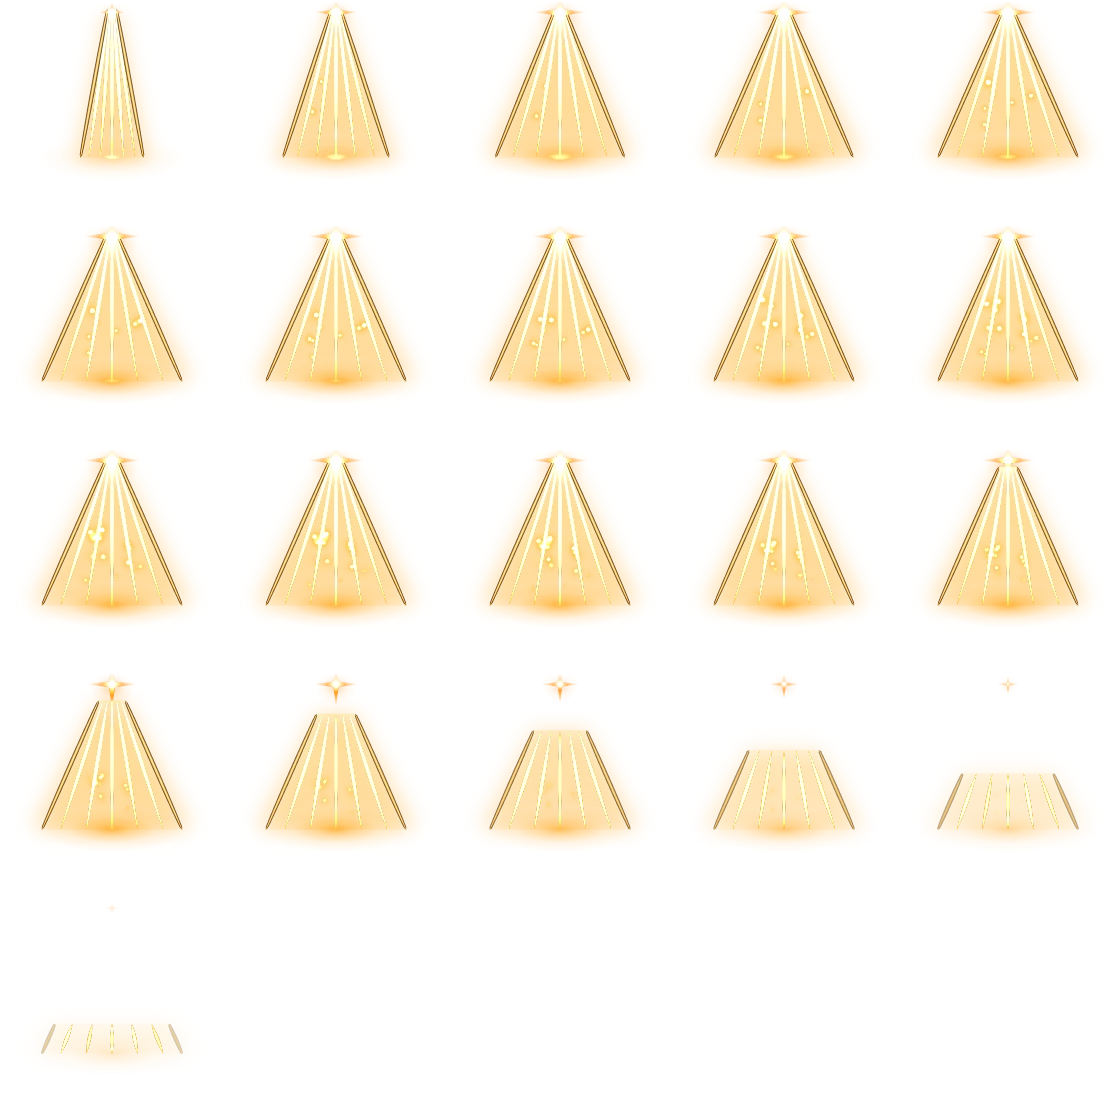
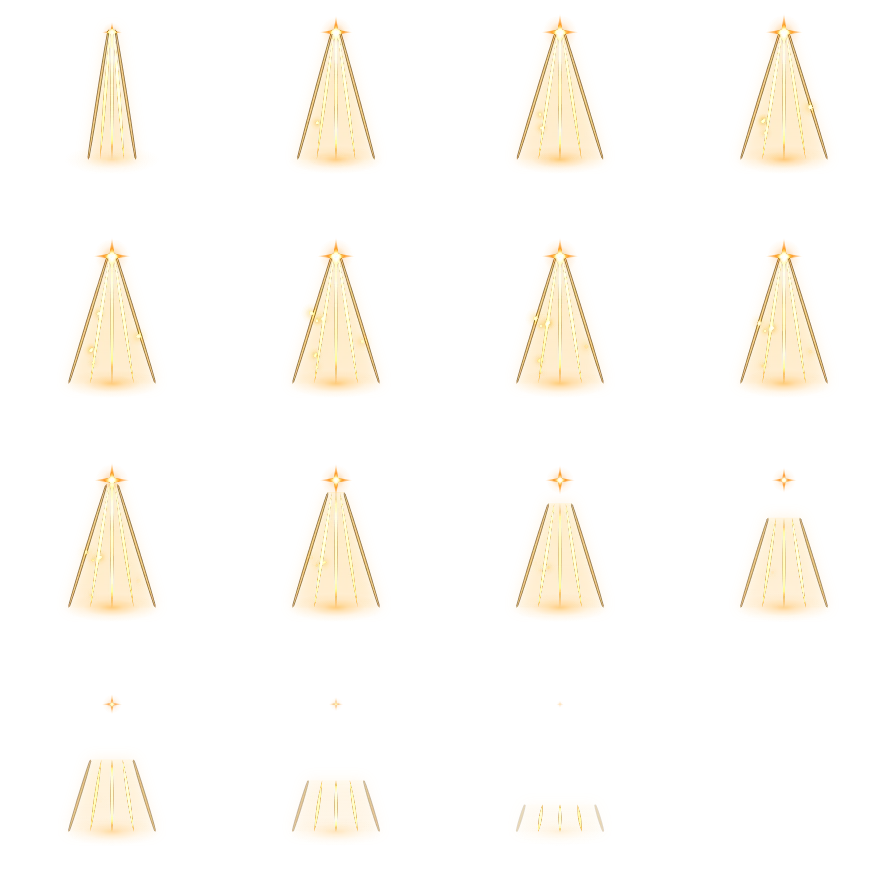
성기사 빛의 손길 이펙트를 기본 힐답게 가볍게: 원뿔 폭 절반 · 0.9초 → 0.67초 · 칸 안으로 · 옅게
Lim 2026-10-16 「성기사의 빛의 손길 이펙트가 너무 과하다. 기본힐인데 그에 맞게」. 모양 (위에서 비추는 원뿔 빛)은 그대로.
fx:shot이 다른 직업 띠를 읽을 때 기다리는 시간도 늘림 (기기가 바쁘면 이펙트 없이 찍히던 것).

diff --git a/src/battle/pxf.ts b/src/battle/pxf.ts
@@ -77,7 +77,7 @@ export const PXF = {
   'druid-bark': skill(24, 92),
   'druid-quietwood': skill(24, 72),
   'druid-rebirth': skill(24, 98),
-  'paladin-holy-light': skill(22, 94),
+  'paladin-holy-light': skill(16, 80), // 기본 힐이라 가볍게 (Lim 2026-10-16 「너무 과하다」)
   'paladin-oath': skill(24, 90),
   'paladin-light-wave': skill(18, 88),
   'paladin-cleanse': skill(18, 92),
